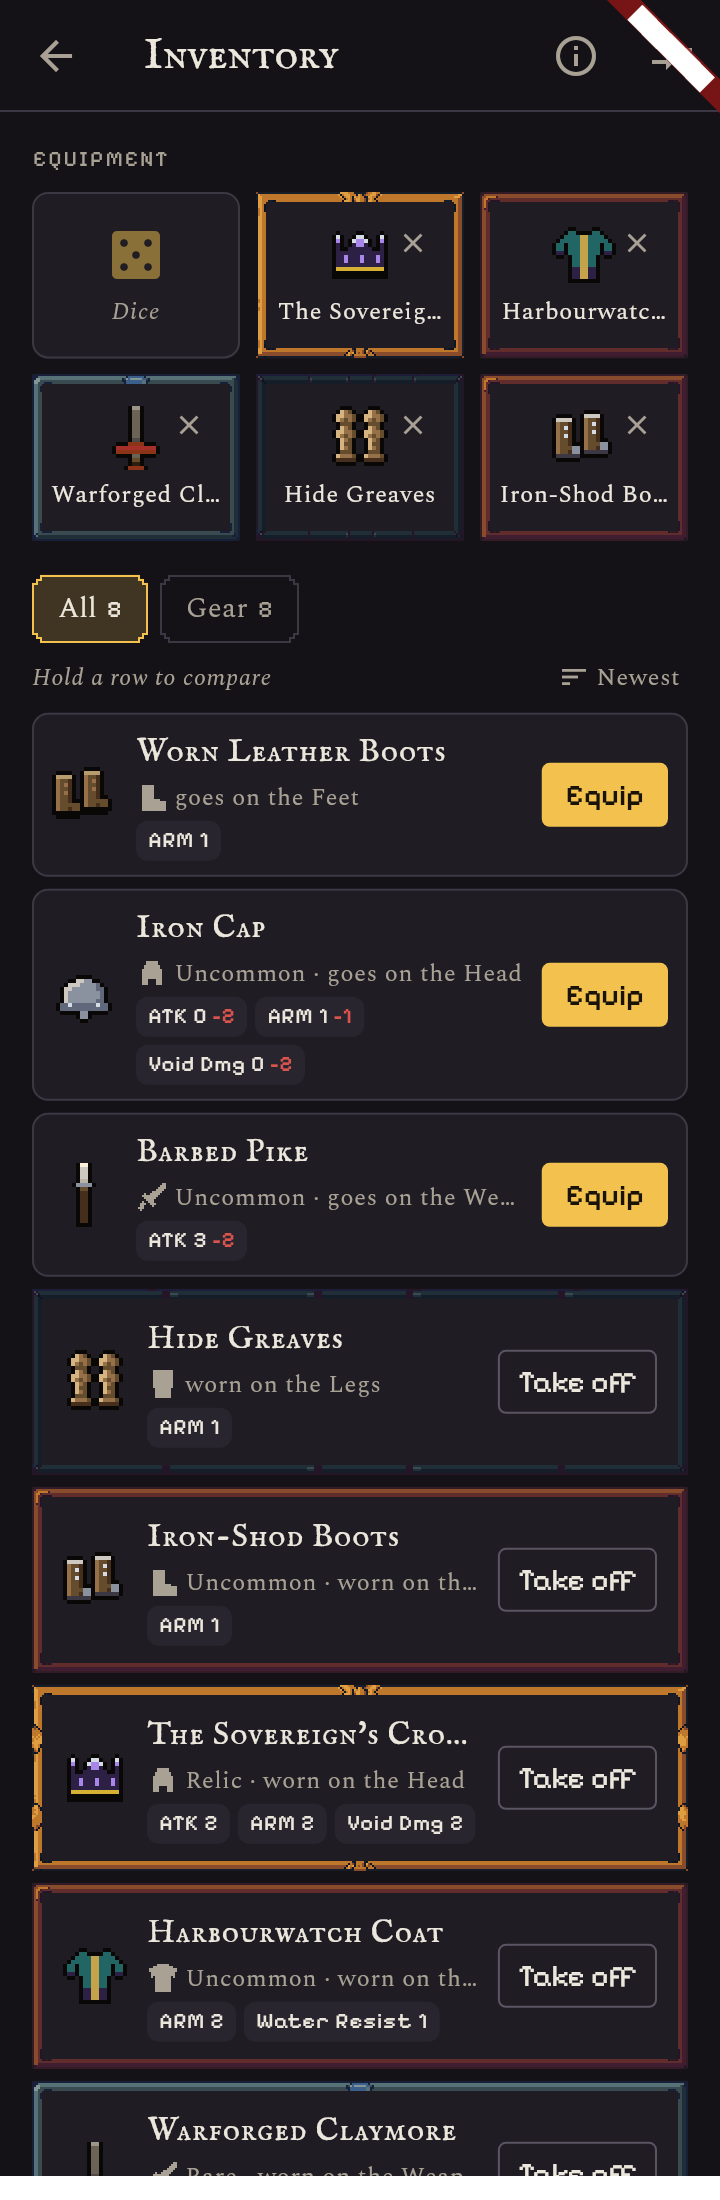
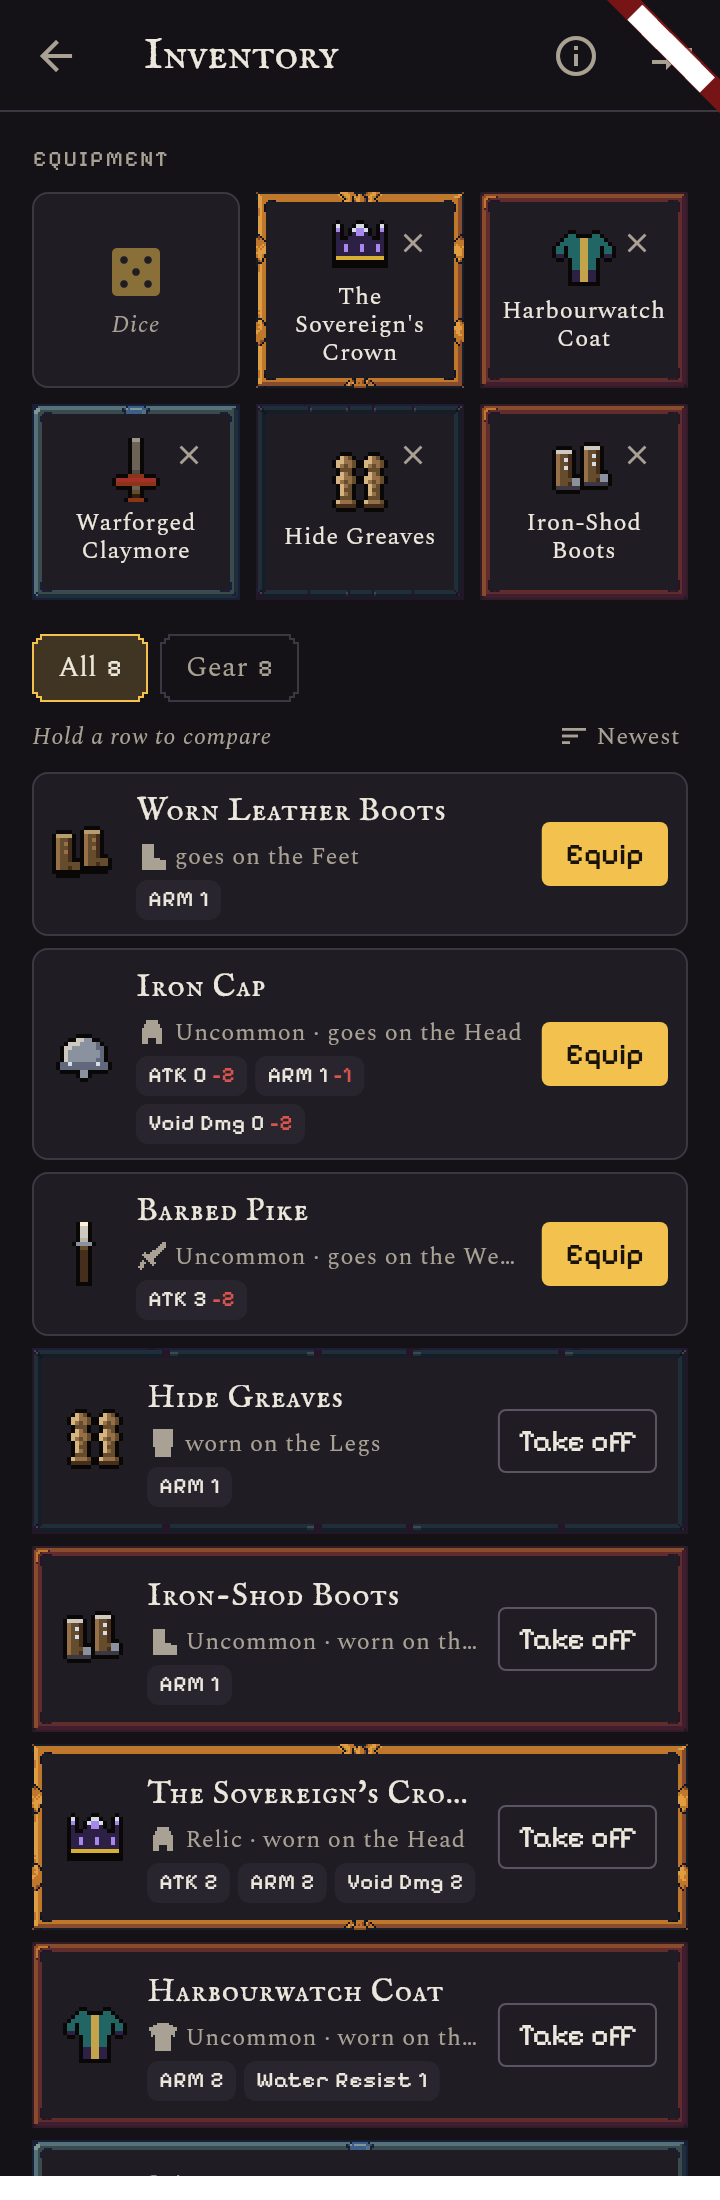
v1.989.0: worn item names shown whole in the equipment tiles (#1090)
Claude-Session: https://claude.ai/code/session_019ETFw2Y7wpHSXWG5mmACty

diff --git a/lib/screens/inventory_screen.dart b/lib/screens/inventory_screen.dart
@@ -712,11 +712,14 @@ class _InventoryBodyState extends ConsumerState<_InventoryBody> {
       padding: const EdgeInsets.all(16),
       children: [
         caption(tr(ref, 'equipment_section')),
-        GridView.count(
-          crossAxisCount: 3,
-          mainAxisSpacing: 8,
-          crossAxisSpacing: 8,
-          childAspectRatio: 1.25,
+        GridView(
+          // A fixed height: a worn piece's name takes up to three lines (v1.989).
+          gridDelegate: const SliverGridDelegateWithFixedCrossAxisCount(
+            crossAxisCount: 3,
+            mainAxisSpacing: 8,
+            crossAxisSpacing: 8,
+            mainAxisExtent: 98,
+          ),
           shrinkWrap: true,
           physics: const NeverScrollableScrollPhysics(),
           children: slotTiles,

diff --git a/lib/widgets/inventory_parts.dart b/lib/widgets/inventory_parts.dart
@@ -338,10 +338,11 @@ class InventorySlotTile extends StatelessWidget {
                 Opacity(opacity: filled ? 1 : 0.5, child: icon),
                 const SizedBox(height: 4),
                 Text(worn ?? slotLabel,
-                    maxLines: 1,
+                    maxLines: filled ? 3 : 1,
                     overflow: TextOverflow.ellipsis,
                     textAlign: TextAlign.center,
                     style: theme.textTheme.bodySmall?.copyWith(
+                        height: 1.15,
                         color: filled ? null : ink.ash,
                         fontStyle: filled ? null : FontStyle.italic)),
               ],

diff --git a/lib/app_info.dart b/lib/app_info.dart
@@ -1,6 +1,6 @@
 class AppInfo {
   static const String name = 'Narrative Data App';
-  static const String version = '1.988.0';
+  static const String version = '1.989.0';
 
   static String get displayName => '$name v$version';
 }

diff --git a/CHANGELOG.md b/CHANGELOG.md
@@ -8,6 +8,9 @@ and the version it bumped `pubspec.yaml` to). Format loosely follows
 History before v1.23.1 predates per-PR versioning in this repository and
 isn't reconstructable from git history alone.
 
+## [1.989.0+1025]
+- Inventory: a worn piece's name shows whole in its equipment tile (up to three lines, the tiles a little taller), in English and French.
+
 ## [1.988.0+1024]
 - Clans: each clan's standing card is a nameplate in the clan's colour with its emblem in the band, the sworn clan outlined in gold, like the other story screens.
 
